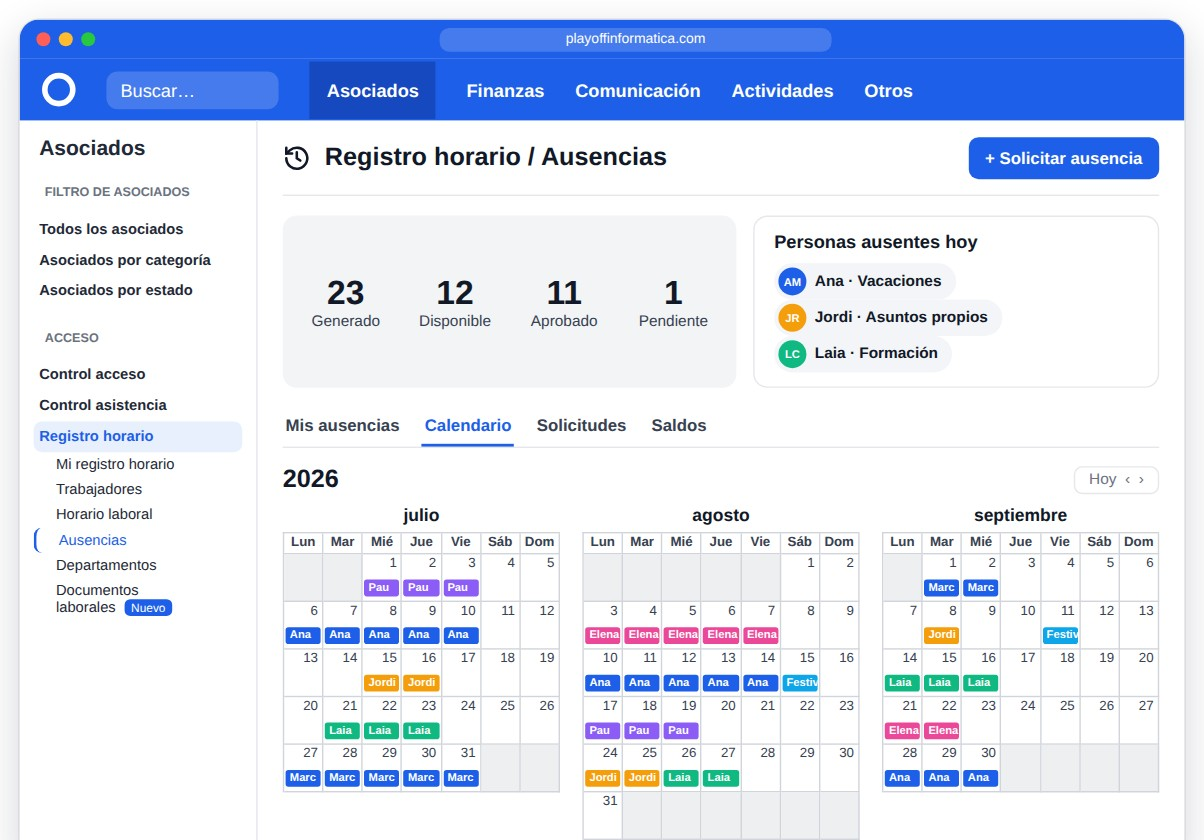
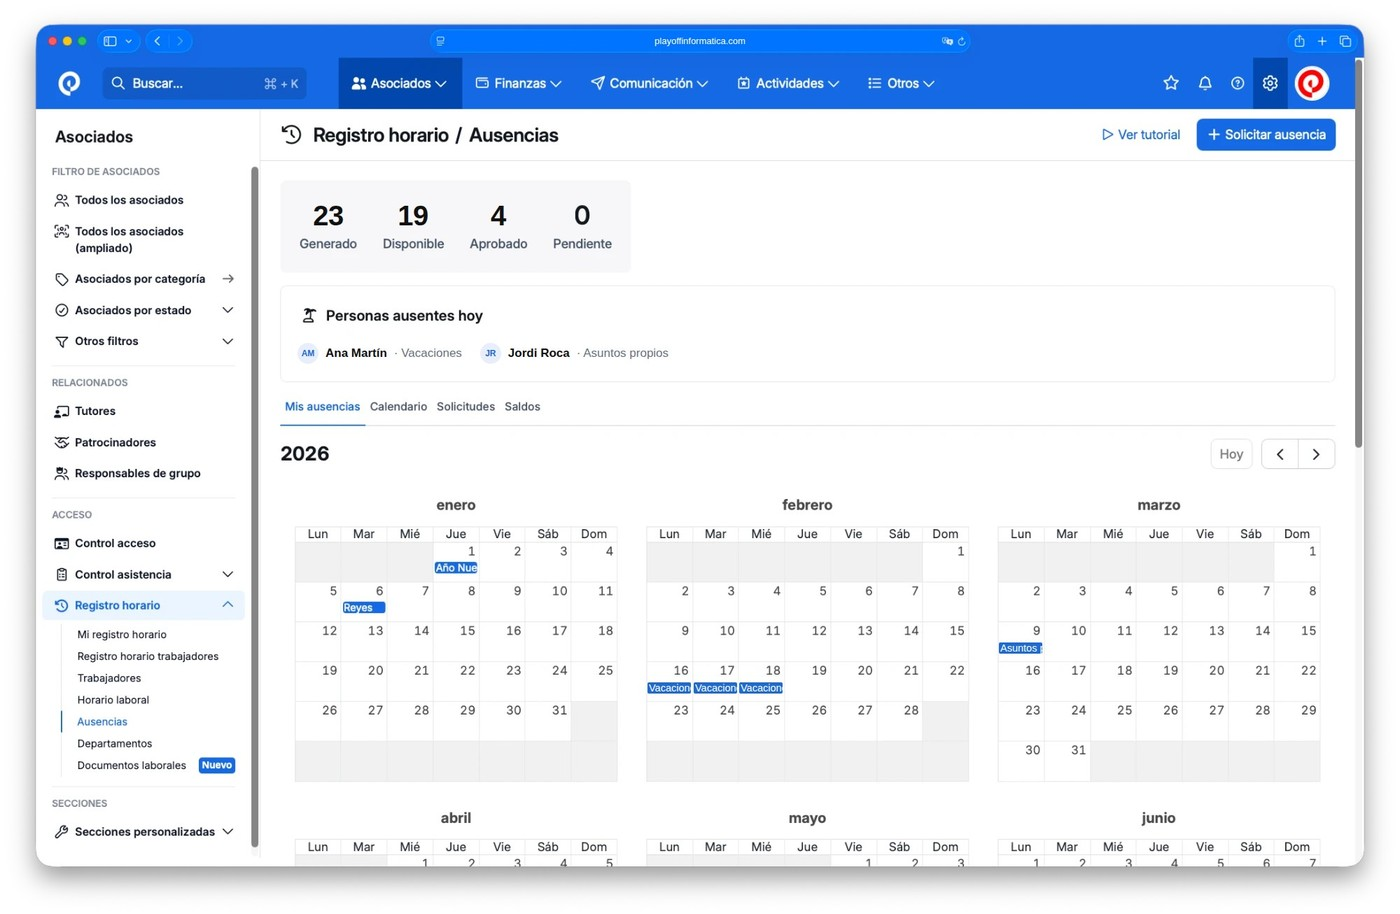
Imagen de Ausencias: la captura real de la app, rellenada con lo mínimo
Claude-Session: https://claude.ai/code/session_01HuccnVzS7LeHVufVjVycyE

diff --git a/envios/img-jul-sep/fuentes/ausencias-destacada.html b/envios/img-jul-sep/fuentes/ausencias-destacada.html
@@ -1,62 +1,23 @@
-<html><head><link rel="stylesheet" href="base.css"><style>:root{--w:860px;--h:600px}
-body{background:#fff;display:block;padding:14px 14px 0}
-.win{border-radius:14px 14px 0 0;overflow:hidden;box-shadow:0 10px 30px rgba(15,23,42,.18),0 0 0 1px rgba(15,23,42,.08);height:600px;background:#fff}
-.bar{height:28px;background:#1d5fe8;display:flex;align-items:center;padding:0 12px;gap:6px}
-.bar i{width:10px;height:10px;border-radius:50%}.url{margin:0 auto;background:rgba(255,255,255,.18);color:#fff;font-size:10px;border-radius:7px;padding:3px 90px}
-.nav{height:44px;background:#1d5fe8;display:flex;align-items:center;gap:22px;padding:0 16px;color:#fff;font-size:13px;font-weight:600}
-.nav .lg{width:24px;height:24px;border-radius:50%;border:4px solid #fff}.nav .bs{background:rgba(255,255,255,.18);border-radius:8px;padding:6px 60px 6px 10px;font-weight:400}
-.nav .act{background:#1649c0;padding:13px 12px}
-.app{display:flex;height:528px}
-.side{width:170px;border-right:1px solid var(--linea);padding:12px 10px;font-size:10.5px;font-weight:600;color:#1f2937}
-.side h4{font-size:15px;margin:0 0 10px 4px}.side .s{font-size:9px;color:#6b7280;font-weight:600;margin:12px 4px 6px}
-.side div{padding:5px 4px}.side .on{background:#e8f0fe;color:#1d5fe8;border-radius:6px}
-.side .sub{padding:3px 4px 3px 16px;font-weight:500}.side .sub.on{background:none;border-left:2px solid #1d5fe8}
-.nv{background:#1d5fe8;color:#fff;border-radius:4px;padding:1px 5px;font-size:8.5px;margin-left:6px}
-.main{flex:1;padding:0 18px}
-.h{display:flex;align-items:center;gap:10px;height:54px;border-bottom:1px solid var(--linea);font-size:18px;font-weight:700}
-.h .btn{margin-left:auto;background:#1d5fe8;color:#fff;font-size:12px;padding:8px 12px;border-radius:7px}
-.row{display:flex;gap:12px;margin:14px 0}
-.st{display:flex;align-items:center;background:#f3f4f6;border-radius:10px;padding:10px 6px}
-.st div{width:78px;text-align:center}.st b{display:block;font-size:24px}.st span{font-size:11px;color:#374151}
-.hoy{flex:1;border:1px solid var(--linea);border-radius:10px;padding:10px 14px}
-.hoy p{font-size:13px;font-weight:700;margin-bottom:8px}
-.p{display:inline-flex;align-items:center;gap:6px;font-size:11px;font-weight:600;background:#f3f5f9;border-radius:999px;padding:3px 10px 3px 3px;margin-right:6px}
-.p i{width:20px;height:20px;border-radius:50%;color:#fff;font-size:8px;font-style:normal;display:flex;align-items:center;justify-content:center}
-.tabs{display:flex;gap:14px;font-size:12px;font-weight:600;color:#374151;border-bottom:1px solid var(--linea)}.tabs span{padding:6px 2px}.tabs .on{color:#1d5fe8;border-bottom:2px solid #1d5fe8}
-.cab{display:flex;align-items:center;margin:12px 0 8px;font-size:18px;font-weight:700}.cab small{margin-left:auto;font-size:11px;border:1px solid var(--linea);border-radius:6px;padding:3px 10px;color:#6b7280;font-weight:500}
-.meses{display:flex;gap:16px}
-.mes{flex:1}.mes h5{text-align:center;font-size:12.5px;margin-bottom:5px}
-.g{display:grid;grid-template-columns:repeat(7,1fr);border-top:1px solid #d1d5db;border-left:1px solid #d1d5db}
-.g div{border-right:1px solid #d1d5db;border-bottom:1px solid #d1d5db;height:34px;font-size:9.5px;text-align:right;padding:1px 3px;color:#374151;position:relative}
-.g .w{height:15px;text-align:center;font-weight:600;padding:1px 0}
-.g .x{background:#eeeff1}
-.c{position:absolute;left:1px;right:1px;bottom:3px;height:12px;border-radius:2px;color:#fff;font-size:8px;font-weight:700;text-align:left;padding-left:3px;line-height:12px;overflow:hidden;white-space:nowrap}
-</style></head><body><div class="win">
-<div class="bar"><i style="background:#ff5f57"></i><i style="background:#febc2e"></i><i style="background:#28c840"></i><span class="url">playoffinformatica.com</span></div>
-<div class="nav"><span class="lg"></span><span class="bs">Buscar…</span><span class="act">Asociados</span><span>Finanzas</span><span>Comunicación</span><span>Actividades</span><span>Otros</span></div>
-<div class="app"><div class="side"><h4>Asociados</h4>
-<div class="s">FILTRO DE ASOCIADOS</div><div>Todos los asociados</div><div>Asociados por categoría</div><div>Asociados por estado</div>
-<div class="s">ACCESO</div><div>Control acceso</div><div>Control asistencia</div><div class="on">Registro horario</div>
-<div class="sub">Mi registro horario</div><div class="sub">Trabajadores</div><div class="sub">Horario laboral</div><div class="sub on" style="color:#1d5fe8">Ausencias</div><div class="sub">Departamentos</div><div class="sub">Documentos laborales<span class="nv">Nuevo</span></div></div>
-<div class="main">
-<div class="h"><svg width="20" height="20" viewBox="0 0 24 24" fill="none" stroke="#111827" stroke-width="2.2" stroke-linecap="round"><path d="M3 12a9 9 0 1 0 3-6.7L3 8"/><path d="M3 3v5h5M12 7v5l3 2"/></svg>Registro horario / Ausencias<span class="btn">+ Solicitar ausencia</span></div>
-<div class="row"><div class="st"><div><b>23</b><span>Generado</span></div><div><b>12</b><span>Disponible</span></div><div><b>11</b><span>Aprobado</span></div><div><b>1</b><span>Pendiente</span></div></div>
-<div class="hoy"><p>Personas ausentes hoy</p><span class="p"><i style="background:#1d5fe8">AM</i>Ana · Vacaciones</span><span class="p"><i style="background:#f59e0b">JR</i>Jordi · Asuntos propios</span><span class="p"><i style="background:#10b981">LC</i>Laia · Formación</span></div></div>
-<div class="tabs"><span>Mis ausencias</span><span class="on">Calendario</span><span>Solicitudes</span><span>Saldos</span></div>
-<div class="cab">2026<small>Hoy &nbsp;‹ &nbsp;›</small></div>
-<div class="meses" id="m"></div>
-</div></div></div>
-<script>
-var C={A:['#1d5fe8','Ana'],J:['#f59e0b','Jordi'],L:['#10b981','Laia'],P:['#8b5cf6','Pau'],M:['#1d5fe8','Marc'],E:['#ec4899','Elena'],F:['#0ea5e9','Festivo']};
-var ev={6:{1:'P',2:'P',3:'P',6:'A',7:'A',8:'A',9:'A',10:'A',15:'J',16:'J',21:'L',22:'L',23:'L',27:'M',28:'M',29:'M',30:'M',31:'M'},
-7:{3:'E',4:'E',5:'E',6:'E',7:'E',10:'A',11:'A',12:'A',13:'A',14:'A',15:'F',17:'P',18:'P',19:'P',24:'J',25:'J',26:'L',27:'L'},
-8:{1:'M',2:'M',8:'J',11:'F',14:'L',15:'L',16:'L',21:'E',22:'E',28:'A',29:'A',30:'A'}};
-var nombres=['julio','agosto','septiembre'],m=document.getElementById('m');
-[6,7,8].forEach(function(mo,k){var d=document.createElement('div');d.className='mes';var h='<h5>'+nombres[k]+'</h5><div class="g">';
-['Lun','Mar','Mié','Jue','Vie','Sáb','Dom'].forEach(function(w){h+='<div class="w">'+w+'</div>';});
-var first=(new Date(2026,mo,1).getDay()+6)%7, days=new Date(2026,mo+1,0).getDate(), n=0;
-for(var i=0;i<first;i++,n++)h+='<div class="x"></div>';
-for(var dd=1;dd<=days;dd++,n++){var e=ev[mo][dd];h+='<div>'+dd+(e?'<span class="c" style="background:'+C[e][0]+'">'+C[e][1]+'</span>':'')+'</div>';}
-while(n%7)h+='<div class="x"></div>',n++;
-d.innerHTML=h+'</div>';m.appendChild(d);});
-</script></body></html>
+<html><head><link rel="stylesheet" href="base.css"><style>
+html,body{width:2000px;height:1306px;display:block;background:#fff;font-family:Inter,-apple-system,sans-serif}
+.base{position:absolute;left:0;top:0;width:2000px;height:1306px}
+.t{position:absolute;display:flex;align-items:center;justify-content:center}
+.n{background:#f7f6f9;font-size:40px;font-weight:600;color:#111;width:70px;height:50px;top:283px;letter-spacing:-.01em}
+.chip{position:absolute;height:16px;background:#1e6ad4;color:#fff;font-size:14.5px;line-height:16px;font-weight:500;padding-left:2px;border-radius:2px;overflow:hidden;white-space:nowrap;width:62px}
+.hoy{position:absolute;left:425px;top:482px;width:1400px;height:46px;background:#fff;display:flex;align-items:center;gap:26px}
+.pp{display:flex;align-items:center;gap:10px;font-size:17px;color:#111;font-weight:600}
+.pp i{width:30px;height:30px;border-radius:50%;background:#e8eefb;color:#1e6ad4;font-size:12px;font-style:normal;font-weight:700;display:flex;align-items:center;justify-content:center}
+.pp span{color:#6b7280;font-weight:400}
+.url{position:absolute;left:915px;top:49px;width:170px;height:19px;background:#0074fe;color:#fff;font-size:13px;font-weight:500;display:flex;align-items:center;justify-content:center}
+</style></head><body>
+<img class="base" src="ausencias-captura.png">
+<div class="url">playoffinformatica.com</div>
+<div class="t n" style="left:434px">23</div>
+<div class="t n" style="left:555px">19</div>
+<div class="t n" style="left:677px">4</div>
+<div class="hoy"><div class="pp"><i>AM</i>Ana Martín <span>· Vacaciones</span></div><div class="pp"><i>JR</i>Jordi Roca <span>· Asuntos propios</span></div></div>
+<div class="chip" style="left:925px;top:975px">Vacaciones</div>
+<div class="chip" style="left:991px;top:975px">Vacaciones</div>
+<div class="chip" style="left:1056px;top:975px">Vacaciones</div>
+<div class="chip" style="left:1427px;top:918px">Asuntos propios</div>
+</body></html>

diff --git a/envios/img-jul-sep/fuentes/exportar.js b/envios/img-jul-sep/fuentes/exportar.js
@@ -1,10 +1,10 @@
 const { chromium } = require('playwright');
 const dir = __dirname, salida = require('path').join(__dirname, '..');
-const piezas = [['reenviar',1200,720],['segmenta',800,600],['plazas',800,600],['reserva',800,600],['ausencias',800,600],['documentos',800,600],['envios',800,600],['ausencias-destacada',860,600],['reenviar-col',800,600]];
+const piezas = [['reenviar',1200,720],['segmenta',800,600],['plazas',800,600],['reserva',800,600],['ausencias',800,600],['documentos',800,600],['envios',800,600],['ausencias-destacada',2000,1306],['reenviar-col',800,600]];
 (async () => {
   const b = await chromium.launch();
   for (const [n, w, h] of piezas) {
-    const p = await b.newPage({ viewport: { width: w, height: h }, deviceScaleFactor: n === 'ausencias-destacada' ? 1.4 : 1 });
+    const p = await b.newPage({ viewport: { width: w, height: h }, deviceScaleFactor: 1 });
     await p.goto('file://' + dir + '/' + n + '.html'); await p.evaluate(() => document.fonts.ready); await p.waitForTimeout(400);
     await p.screenshot({ path: salida + '/' + n + '.jpg', type: 'jpeg', quality: 90 });
     await p.close();
